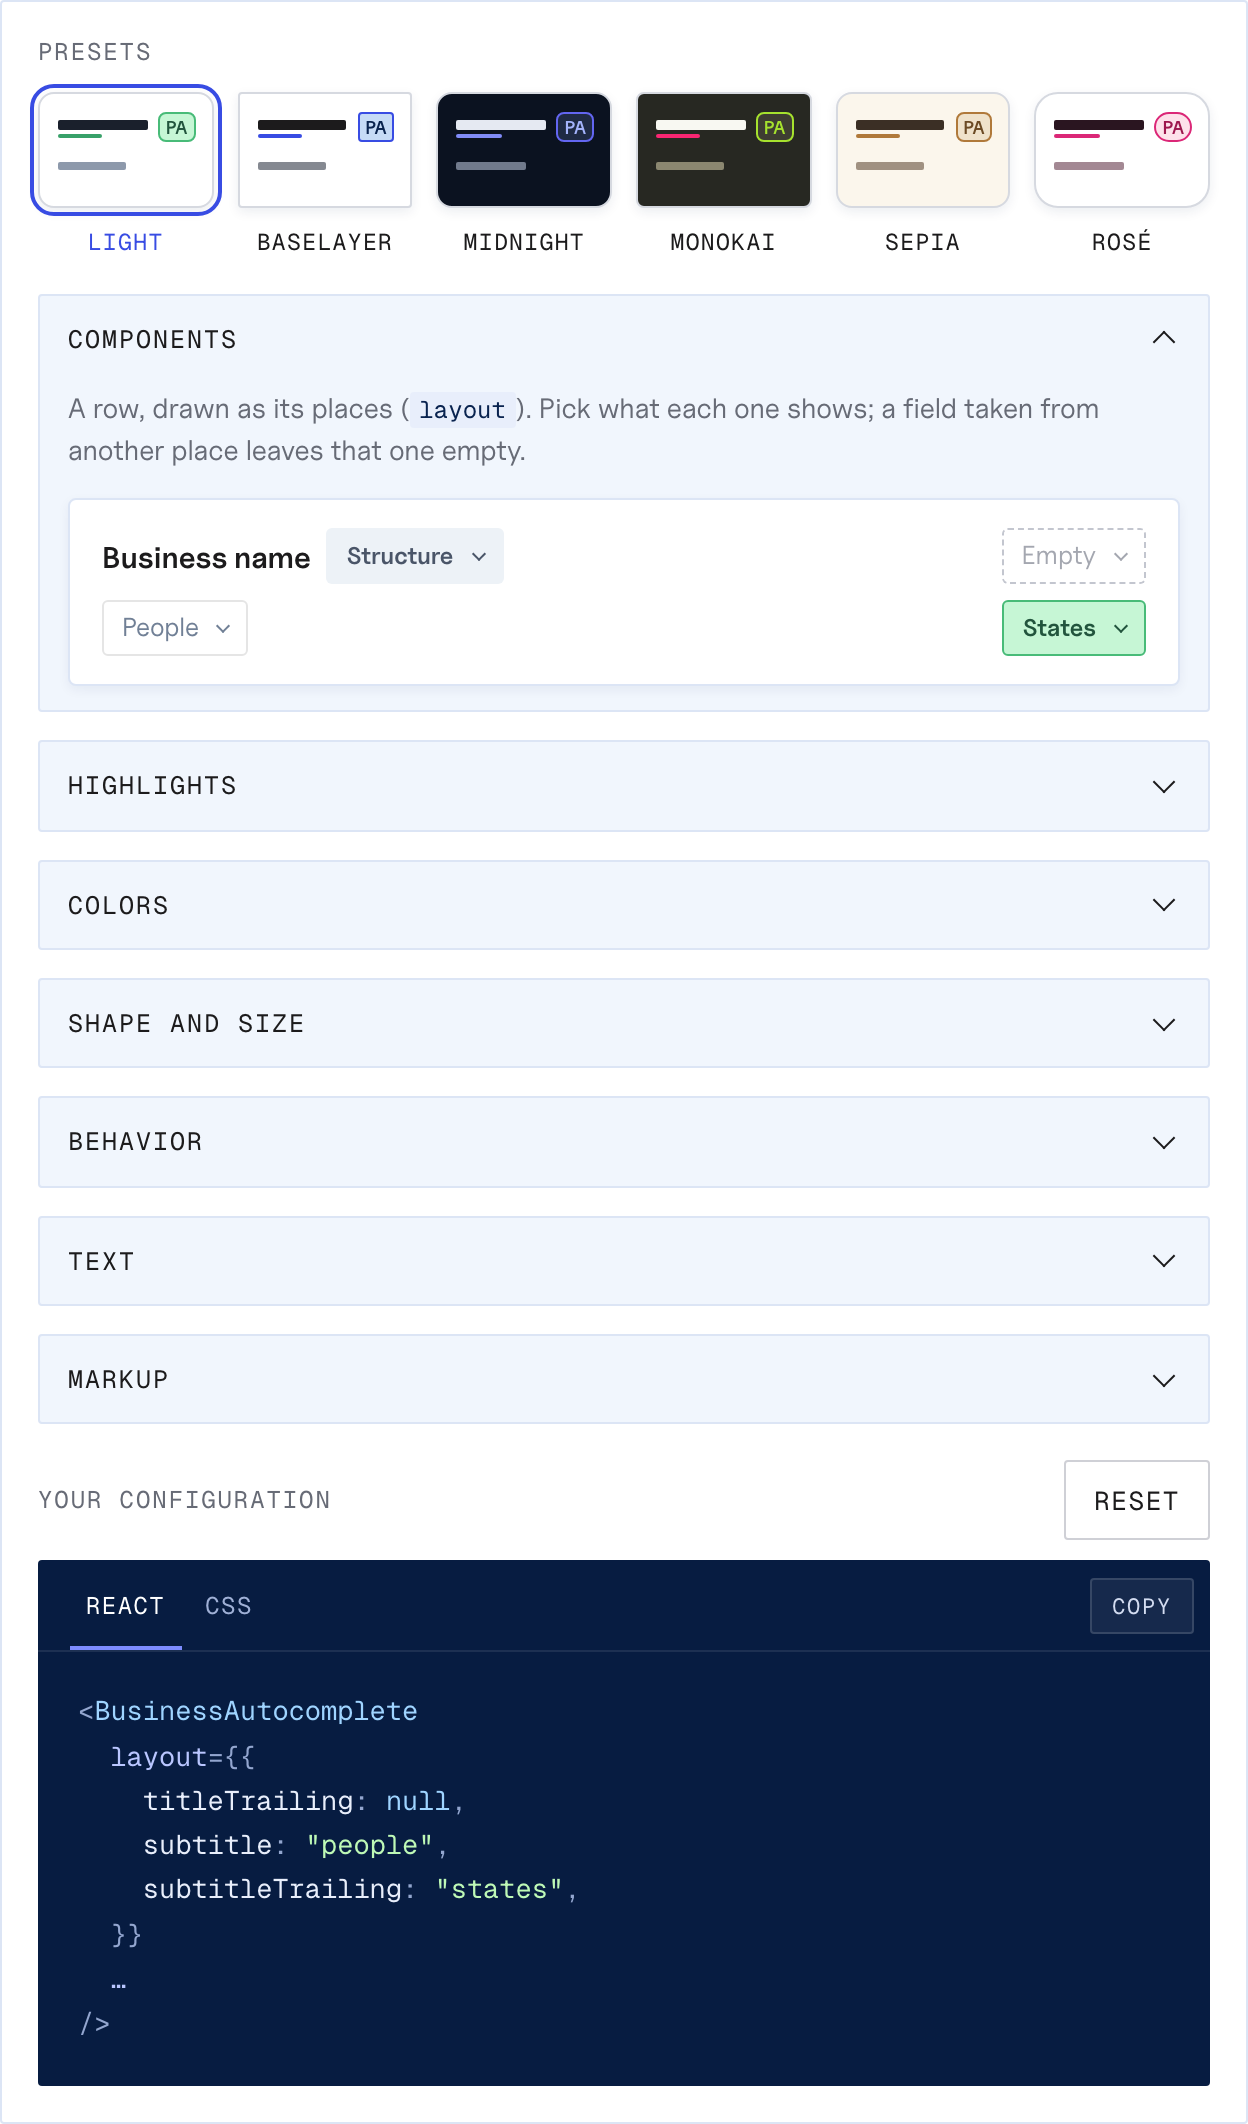
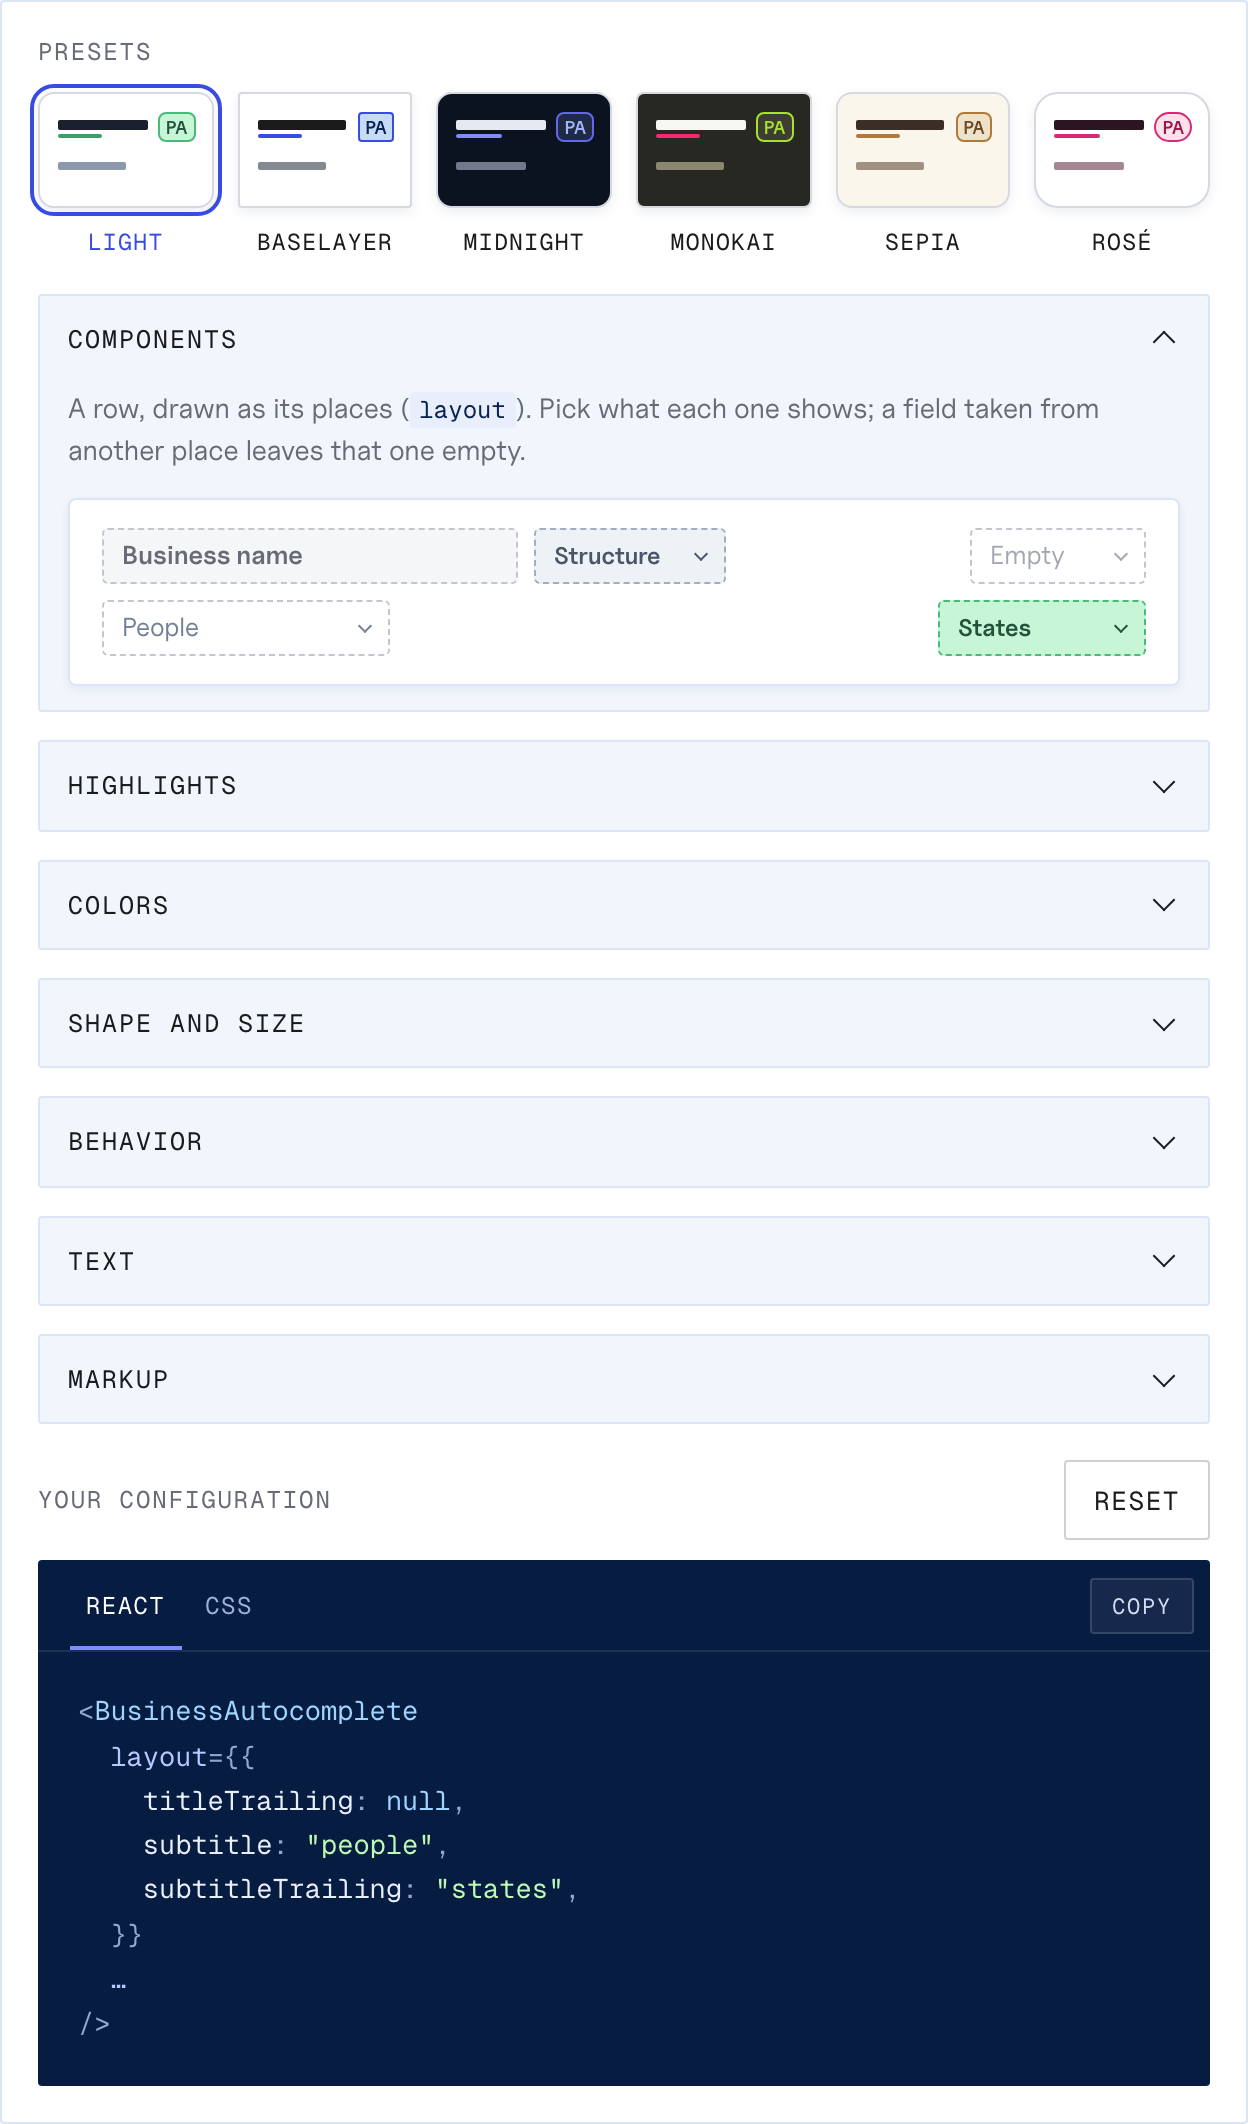
Draw every place in the Components fold dashed, and as wide as its field
Each place is now a dashed outline, and as wide as the field it holds
usually is: the name and the address long, the people middling, the
structure and the states short, an empty place shorter still. The name is
drawn as a place too, a disabled button, since it is the one place that
cannot be picked. The Styling panel's screenshot is retaken.

diff --git a/site/demo/demo.css b/site/demo/demo.css
@@ -559,20 +559,63 @@
   min-width: 0;
 }
 
-.row-map-name {
+/* Every place is as wide as what it holds usually is: a name and an address
+   long, the people middling, a flag short. The name is fixed, so it is drawn
+   as a place that cannot be picked. */
+.row-map-name,
+.row-map-place select {
+  box-sizing: border-box;
+  width: 100%;
+  height: 28px;
+  margin: 0;
+  padding: 0 24px 0 9px;
   overflow: hidden;
+  background: transparent;
+  border: 1px dashed #c3c6cf;
+  border-radius: 3px;
   color: var(--ink);
-  font-size: 15px;
-  font-weight: 600;
+  font: inherit;
+  font-size: 13px;
+  text-align: left;
   text-overflow: ellipsis;
   white-space: nowrap;
+}
+
+.row-map-name {
+  flex: 0 1 13rem;
+  min-width: 0;
+  padding-right: 9px;
+  background: #f5f6f8;
+  color: var(--muted);
+  font-weight: 600;
+  cursor: not-allowed;
 }
 
 .row-map-place {
   position: relative;
   display: inline-flex;
-  flex: none;
+  flex: 0 1 6rem;
   min-width: 0;
+}
+
+.row-map-place[data-field="states"] {
+  flex-basis: 6.5rem;
+}
+
+.row-map-place[data-field="structure"] {
+  flex-basis: 6rem;
+}
+
+.row-map-place[data-field="address"] {
+  flex-basis: 13rem;
+}
+
+.row-map-place[data-field="people"] {
+  flex-basis: 9rem;
+}
+
+.row-map-place[data-field="empty"] {
+  flex-basis: 5.5rem;
 }
 
 .row-map-place[data-trailing] {
@@ -580,20 +623,8 @@
 }
 
 .row-map-place select {
-  box-sizing: border-box;
-  height: 28px;
-  margin: 0;
-  padding: 0 24px 0 9px;
   appearance: none;
-  background: transparent;
-  border: 1px solid transparent;
-  border-radius: 3px;
-  color: var(--ink);
-  font: inherit;
-  font-size: 13px;
   cursor: pointer;
-  /* As wide as the pick, not the longest option, where the browser can. */
-  field-sizing: content;
 }
 
 /* The dropdown's chevron, in the field's own ink. */
@@ -605,7 +636,6 @@
   height: 5px;
   border-right: 1.5px solid currentColor;
   border-bottom: 1.5px solid currentColor;
-  color: inherit;
   content: "";
   pointer-events: none;
   transform: translateY(-70%) rotate(45deg);
@@ -629,6 +659,7 @@
 
 .row-map-place[data-field="structure"] select {
   background: #edf2f7;
+  border-color: #a0aec0;
   color: #4a5568;
   font-size: 12px;
   font-weight: 600;
@@ -641,17 +672,14 @@
 
 .row-map-place[data-field="address"] select,
 .row-map-place[data-field="people"] select {
-  border-color: var(--line);
   color: #718096;
 }
 
-/* An empty place is a gap with a dashed edge, still there to be filled. */
 .row-map-place[data-field="empty"] {
   color: #a4a7b0;
 }
 
 .row-map-place[data-field="empty"] select {
-  border: 1px dashed #c3c6cf;
   color: #a4a7b0;
 }
 

diff --git a/site/demo/StylingPanel.tsx b/site/demo/StylingPanel.tsx
@@ -215,9 +215,14 @@ export function StylingPanel({
         <div className="row-map" role="group" aria-label="A row's places">
           <div className="row-map-line">
             {/* A row is the entity it names, so its title always shows. */}
-            <span className="row-map-name" title="The name, always shown">
+            <button
+              type="button"
+              className="row-map-name"
+              disabled
+              title="The name, always shown"
+            >
               Business name
-            </span>
+            </button>
             <PlaceSelect place="titleBadge" state={state} onChange={onChange} />
             <PlaceSelect
               place="titleTrailing"
